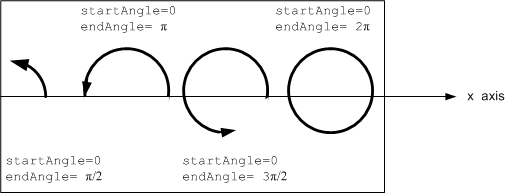
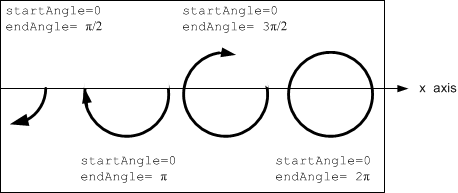
Doc: Fix mislabelled diagram for Context2D.arc()
Previously, the text showed:

    Pi/2 -> Pi -> 3Pi/2 -> 2Pi

But the curves showed:

    3Pi/2 -> Pi -> Pi/2 -> 2Pi

The curves are now drawn in a clockwise sequence to match the text.

(cherry picked from commit 0c615d61ba4705894c2d25c5fc7a2ed406bd5942)

diff --git a/src/quick/items/context2d/qquickcontext2d.cpp b/src/quick/items/context2d/qquickcontext2d.cpp
@@ -2404,8 +2404,8 @@ QV4::ReturnedValue QQuickJSContext2DPrototype::method_strokeRect(const QV4::Func
 
     \image qml-item-canvas-startAngle.png
 
-    The \a anticlockwise parameter is \c true for each arc in the figure above
-    because they are all drawn in the anticlockwise direction.
+    The \a anticlockwise parameter is \c false for each arc in the figure above
+    because they are all drawn in the clockwise direction.
 
     \sa arcTo, {http://www.w3.org/TR/2dcontext/#dom-context-2d-arc}{W3C's 2D
     Context Standard for arc()}
